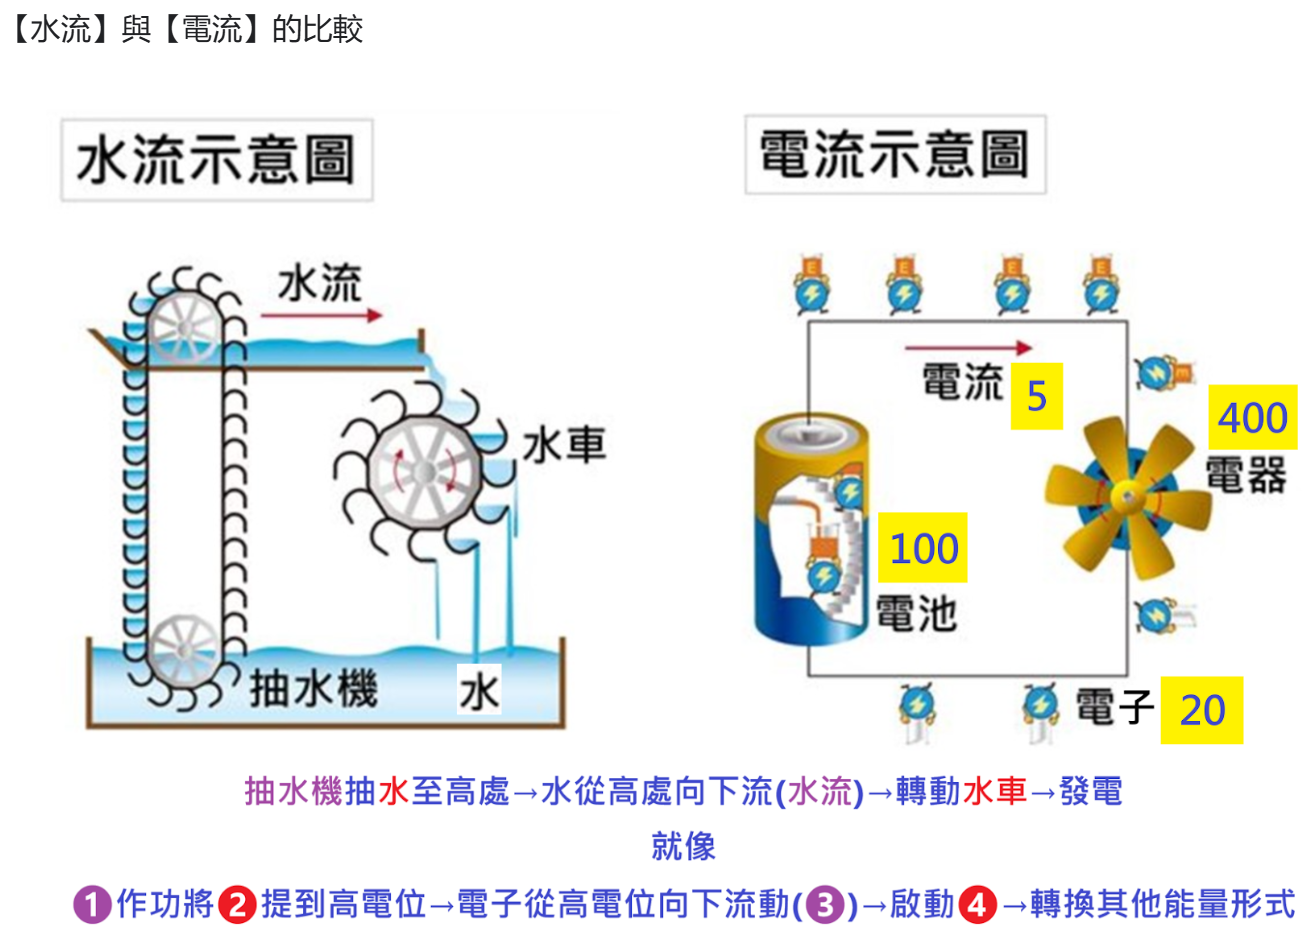
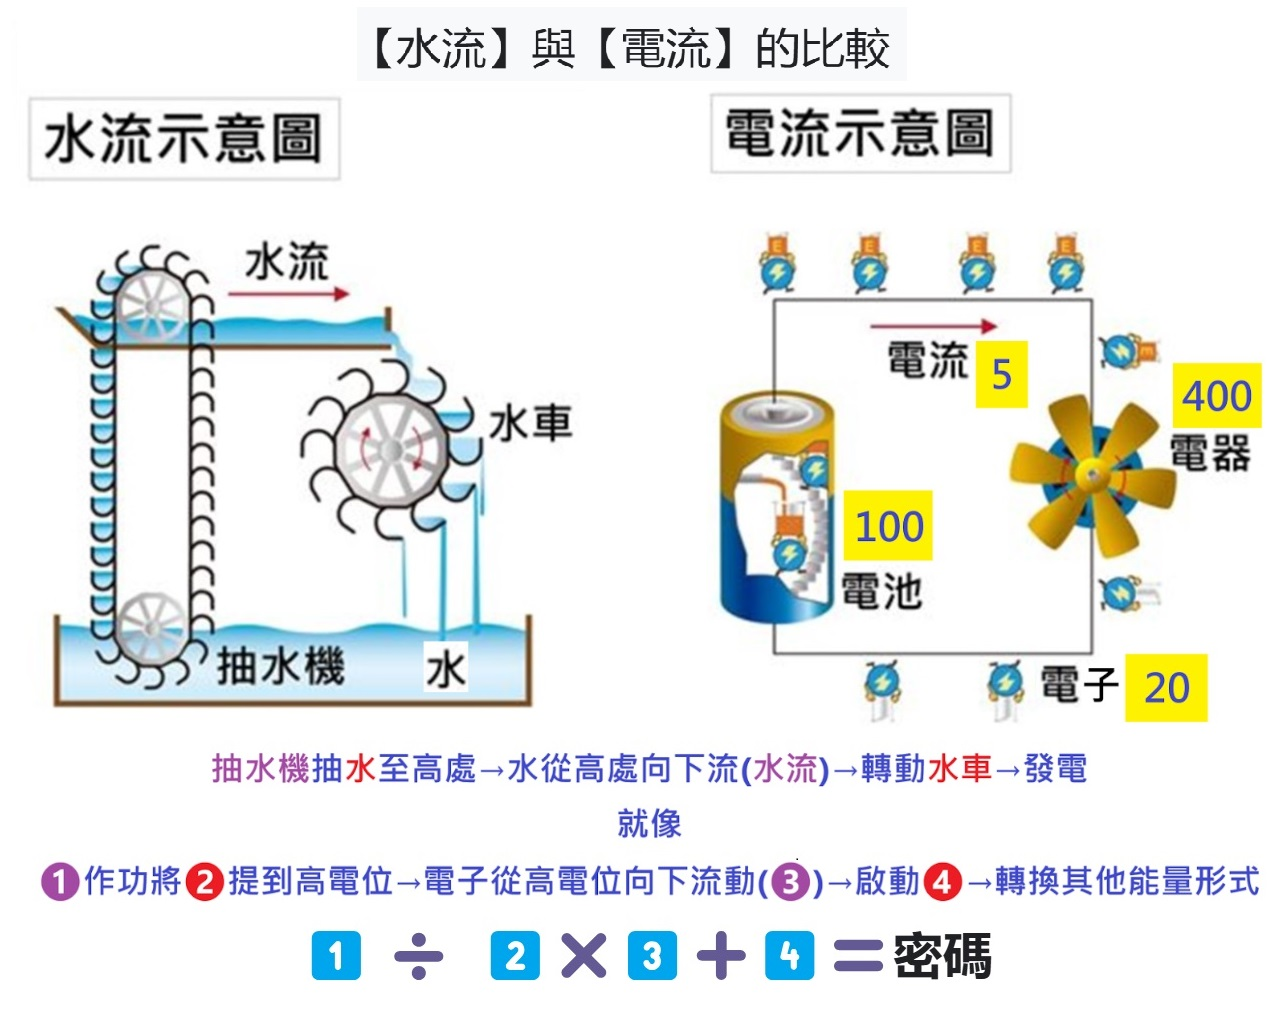
Add files via upload

diff --git a/password/password.html b/password/password.html
@@ -235,7 +235,7 @@
         document.addEventListener('DOMContentLoaded', () => {
             // --- Google Sheet URL ---
             // TODO: 請將此處的 URL 換成你自己的 Google Apps Script 網址
-            const SCRIPT_URL = 'https://script.google.com/macros/s/AKfycby598YcpPA963jAh0oCrS7uLp0Jy6ZLPOce1mZjYtIxZKKn_pz_DcL_A704f17TnoC7/exec';
+            const SCRIPT_URL = '在此貼上你的 Google Apps Script 網址';
 
             // --- State Management ---
             let currentScreen = 0;
@@ -580,15 +580,15 @@
                         <p class="text-gray-400 mb-6">解開三道鎖來打開寶箱。</p>
                         <div class="space-y-4">
                             <div>
-                                <label class="block mb-2">第一道鎖 (2位數)</label>
+                                <label class="block mb-2">第一道鎖 (非再生能源)</label>
                                 <div id="green-password-1" class="flex justify-center"></div>
                             </div>
                              <div>
-                                <label class="block mb-2">第二道鎖 (2位數)</label>
+                                <label class="block mb-2">第二道鎖 (再生能源)</label>
                                 <div id="green-password-2" class="flex justify-center"></div>
                             </div>
                              <div>
-                                <label class="block mb-2">第三道鎖 (3位數)</label>
+                                <label class="block mb-2">第三道鎖 (水流與電流比較)</label>
                                 <div id="green-password-3" class="flex justify-center"></div>
                             </div>
                         </div>
@@ -768,4 +768,3 @@
     </script>
 </body>
 </html>
-
